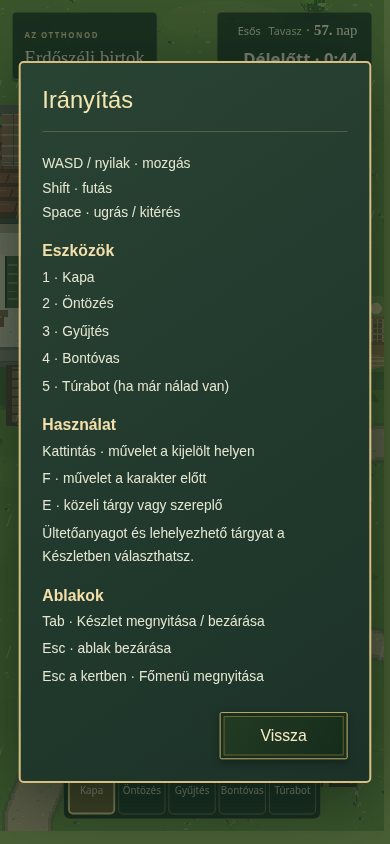
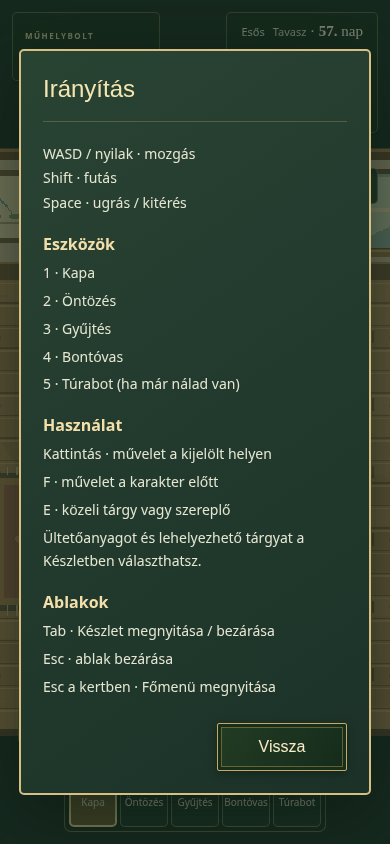
Unify farm and village window styling and clarify compost input rows

Changed region(s): [[0.0, 0.0, 1.0, 1.0], [0.0923, 0.4313, 0.1231, 0.4621]]

diff --git a/src/main.ts b/src/main.ts
@@ -76,6 +76,8 @@ let workshopIsKnown=false;
 const story="Sam egy kutatólaborban dolgozott, ahol rovarokon élősködő gombákat vizsgáltak.\n\nAz utolsó hónapokban egy szokatlan minta érkezett a laborba. Az eredmények nem illettek ahhoz, amit addig tudtak. Sam még azelőtt eljött, hogy kiderült volna, mit találtak.\n\n„Szeretném megtudni, képes vagyok-e a saját kezemmel otthont teremteni ezen a helyen.”";
 function showDialogue(title:string,text:string,label='A BIRTOKON'){
  if(['IRÁNYÍTÁS','A RÉGI MŰHELY','EGY KEDVES SZÓ'].includes(label))text=workshopText(text,workshopIsKnown);label=workshopText(label,workshopIsKnown);
+ delete dialogue.dataset.window;
+ if(['MAGKATALÓGUS','POSTALÁDA','ELADÓLÁDA','ESTI NAPLÓ','HIRDETŐTÁBLA','SIMON','LEO','ANNIE'].includes(label)||['Készlet','Tárolóláda','Nádkosár','Levél a laborba','A küldemény úton van',...Object.values(blueprintNames)].includes(title))dialogue.dataset.window='utility';
  document.querySelector('#research-panel')!.classList.remove('controls-guide');
  release();dialogue.querySelector('.machine-petals')?.remove();delete dialogue.dataset.presentation;delete dialogue.dataset.speaker;document.querySelector<HTMLElement>('#speaker')!.hidden=true;document.querySelector('#speaker-portrait')!.replaceChildren();
  document.querySelector<HTMLButtonElement>('#sleep')!.hidden=true;
@@ -603,10 +605,24 @@ class Farm extends Phaser.Scene {
   if(machine.kind==='irrigation')this.sprayPending=true;
   showDialogue(machine.kind==='basket'?'Nádkosár':blueprintNames[machine.kind],'','A BIRTOKON');const panel=document.querySelector<HTMLElement>('#research-panel')!;panel.replaceChildren();panel.hidden=false;panel.append(machineActivityPanel(machine));
   if(machine.kind==='irrigation'||machine.kind==='beeHabitat'||machine.kind==='basket'){const pickup=document.createElement('button');pickup.type='button';pickup.textContent='Felveszem';pickup.dataset.packMachine=String(index);pickup.onclick=()=>void this.retrieveMachine(index,true);panel.append(pickup);return;}
-  const ready=machine.ready>0,compost=machine.kind==='composter',input=compost?'Gaz':'Vágott nád',held=compost?this.clearing.weed:heldMaterial(this.currentSnapshot(),'reed'),cost=compost?10:4;const status=document.createElement('p');status.textContent=ready?`${compost?'Mulcs':'Nádkosár'}: ${machine.ready}`:machine.started!==null?'Készül…':`${input}: ${held} / ${cost} → ${compost?'4 mulcs':'1 nádkosár'}`;panel.append(status);
-  if(compost&&!ready&&machine.started===null){const fruit=this.travel.crafting?.items.fallenFruit??0;const row=document.createElement('p');row.append(itemIcon('fallenFruit'),document.createTextNode(`Hullott gyümölcs: ${fruit} / 10 → 4 mulcs`));panel.append(row);const start=document.createElement('button');start.type='button';start.dataset.compostFruit='';start.textContent='Gyümölcsből készítem';start.disabled=fruit<10||this.transitioning;start.onclick=()=>{const next=compostAction(this.currentSnapshot(),index,'fallenFruit');if(next)void this.commitChest(next,()=>this.openMachine(index));};panel.append(start);}
-  const button=document.createElement('button');button.type='button';button.dataset.machineAction=String(index);button.textContent=ready?'Átveszem':'Elindítom';button.disabled=this.transitioning||machine.started!==null||!ready&&held<cost;button.onclick=()=>{if(this.transitioning)return;const next=compostAction(this.currentSnapshot(),index);if(next)void this.commitChest(next,()=>this.openMachine(index));};panel.append(button);const pack=document.createElement('button');pack.type='button';pack.dataset.packMachine=String(index);pack.textContent='Felveszem';pack.disabled=machine.started!==null||machine.ready>0||this.transitioning;pack.onclick=()=>void this.retrieveMachine(index,true);panel.append(pack);
+  const ready=machine.ready>0,compost=machine.kind==='composter';
+  if(!ready&&machine.started===null){
+   const inputs=compost?(['weed','fallenFruit'] as const):(['reed'] as const);
+   for(const input of inputs){
+    const held=input==='weed'?this.clearing.weed:input==='fallenFruit'?this.travel.crafting?.items.fallenFruit??0:heldMaterial(this.currentSnapshot(),'reed'),cost=compost?10:4;
+    const row=document.createElement('div');row.className='machine-input-row';row.dataset.machineInput=input;
+    const text=document.createElement('span');text.textContent=`${input==='weed'?'Gaz':input==='fallenFruit'?'Hullott gyümölcs':'Vágott nád'}: ${held} / ${cost} → ${compost?'4 mulcs':'1 nádkosár'}`;
+    const start=document.createElement('button');start.type='button';start.textContent='Elindítom';if(input==='fallenFruit')start.dataset.compostFruit='';else start.dataset.machineAction=String(index);
+    start.disabled=this.transitioning||held<cost;start.onclick=()=>{if(this.transitioning)return;const next=compostAction(this.currentSnapshot(),index,input==='fallenFruit'?'fallenFruit':'weed');if(next)void this.commitChest(next,()=>this.openMachine(index));};
+    row.append(itemIcon(input==='reed'?'cutReed':input),text,start);panel.append(row);
+   }
+  }else{
+   const status=document.createElement('p');status.className='machine-output';if(ready)status.append(itemIcon(compost?'mulch':'basket'));status.append(document.createTextNode(ready?`${compost?'Mulcs':'Nádkosár'}: ${machine.ready}`:'Készül…'));panel.append(status);
+   const take=document.createElement('button');take.type='button';take.dataset.machineAction=String(index);take.textContent=ready?'Átveszem':'Elindítom';take.disabled=this.transitioning||!ready;take.onclick=()=>{if(this.transitioning)return;const next=compostAction(this.currentSnapshot(),index);if(next)void this.commitChest(next,()=>this.openMachine(index));};panel.append(take);
+  }
+  const pack=document.createElement('button');pack.type='button';pack.dataset.packMachine=String(index);pack.textContent='Felveszem';pack.disabled=machine.started!==null||machine.ready>0||this.transitioning;pack.onclick=()=>void this.retrieveMachine(index,true);panel.append(pack);
  }
+
  private async retrieveMachine(index:number,close=false){if(this.transitioning)return;const next=packMachine(this.currentSnapshot(),index);if(next)await this.commitChest(next,()=>{if(close)dialogue.close();});}
  private craftPlacement(){
   if(!this.target)return null;let p={x:this.target.x+TILE/2,y:this.target.y+TILE/2};if(this.placingCraft==='irrigation'&&this.garden.plots.size){const closest=[...this.garden.plots.keys()].map(k=>{const[x,y]=k.split(',').map(Number);return{x:x+TILE/2,y:y+TILE/2};}).filter(q=>Math.abs(q.y-p.y)<=TILE/2).sort((a,b)=>Math.abs(a.y-p.y)-Math.abs(b.y-p.y)||Math.abs(a.x-p.x)-Math.abs(b.x-p.x))[0];if(closest)p={x:closest.x+Math.round((p.x-closest.x)/TILE)*TILE,y:closest.y};}return p;

diff --git a/src/menu.css b/src/menu.css
@@ -99,3 +99,33 @@
 #dialogue:is([data-presentation="controls"],[data-presentation="story"]) #dialogue-close:hover{background:linear-gradient(125deg,#3b502cf5,#243e24f5)}
 #dialogue[data-presentation="controls"] #research-panel{border-top:0;padding-top:0}
 @media(max-width:500px){#dialogue:is([data-presentation="controls"],[data-presentation="story"]){padding:22px;max-height:calc(100dvh - 32px)}#dialogue:is([data-presentation="controls"],[data-presentation="story"]) #dialogue-text{font-size:14px;line-height:1.75}#dialogue:is([data-presentation="controls"],[data-presentation="story"]) #dialogue-title{font-size:24px}}
+
+/* Reading text uses the original system font; controls retain the menu type. */
+#dialogue:is([data-presentation="story"],[data-presentation="controls"]) #dialogue-text,#dialogue[data-presentation="controls"] .controls-guide{font-family:system-ui,sans-serif}
+/* Shared surfaces for farm, storage and inventory windows. */
+#dialogue[data-window="utility"]{inset:0;margin:auto;height:fit-content;max-height:calc(100dvh - 40px);background:linear-gradient(145deg,#2b4332f7,#172e23fc);border:1px solid #bda46a;border-radius:5px;box-shadow:0 16px 70px #07170e90;color:#f0e8ce;font-family:system-ui,sans-serif}
+#dialogue[data-window="utility"]::backdrop{background:#07170d80}
+#dialogue[data-window="utility"] #dialogue-title{font:400 27px/1.3 'Trebuchet MS','Segoe UI',sans-serif;color:#f4e6b0}
+#dialogue[data-window="utility"] #dialogue-label{color:#d4bf85}
+#dialogue[data-window="utility"] :is(p,li){font-family:system-ui,sans-serif}
+#dialogue[data-window="utility"] button{font-family:'Trebuchet MS','Segoe UI',sans-serif;color:#f8ebc5;background:linear-gradient(125deg,#233c22f2,#142b1bf5);border-color:#bda46a;border-radius:3px}
+#dialogue[data-window="utility"] button:not(.item-slot):not(.chest-slot):not([role="tab"]){box-shadow:inset 0 0 0 2px #172e1a,inset 0 0 0 3px #ac944b70}
+#dialogue[data-window="utility"] button:hover:not(:disabled){background:linear-gradient(125deg,#3b502cf5,#243e24f5);border-color:#e0c784}
+#dialogue[data-window="utility"] button:disabled{color:#b7b8ad;background:#555c54;border-color:#858b7b;opacity:.55;cursor:default;box-shadow:none}
+#dialogue[data-window="utility"] .inventory-tabs button[aria-selected="true"]{background:#676940;color:#fff1bd;border-color:#e0c784;box-shadow:inset 0 -2px #d7bd76}
+#dialogue[data-window="utility"] :is(.backpack-slot,.inventory-card,.chest-slot){background:#314b36;border-color:#8d936c;border-radius:4px}
+#dialogue[data-window="utility"] :is(.slot-grid,.empty-slot){border-color:#8d936c80}
+#dialogue[data-window="utility"] .catalog-row{border-bottom-color:#bda46a40}
+#dialogue[data-window="utility"] input{border-color:#bda46a;background:#f1ebd4;color:#233b2d;border-radius:3px}
+#dialogue[data-window="utility"] #research-panel{border-top-color:#bda46a60}
+.machine-input-row{display:grid;grid-template-columns:40px minmax(0,1fr) auto;align-items:center;gap:12px;padding:13px 0;border-bottom:1px solid #bda46a40}
+.machine-input-row>.item-icon,.machine-output>.item-icon{width:40px;height:40px;flex:none}
+.machine-input-row>span{font:14px/1.5 system-ui,sans-serif;overflow-wrap:anywhere}
+#dialogue .machine-input-row>button{margin:0;min-height:44px;font-size:15px;white-space:nowrap}
+.machine-output{display:flex;align-items:center;gap:12px}
+@media(max-width:500px){#dialogue[data-window="utility"]{max-height:calc(100dvh - 24px)}#dialogue[data-window="utility"] #dialogue-title{font-size:24px}.machine-input-row{grid-template-columns:32px minmax(0,1fr) auto;gap:8px}.machine-input-row>.item-icon{width:32px;height:32px}.machine-input-row>span{font-size:12px}#dialogue .machine-input-row>button{font-size:13px;padding:8px 10px}}
+
+#dialogue[data-window="utility"] :is(.shop-card,.person-card){background:#314b3699;border-color:#8d936c80;border-radius:4px}
+#dialogue[data-window="utility"] .shop-card :is(h3,strong){color:#f4e6b0}
+
+#dialogue[data-window="utility"],#dialogue:is([data-presentation="story"],[data-presentation="controls"]){scrollbar-width:thin;scrollbar-color:#9d9568 #1e3527}

diff --git a/docs/jatekterv.md b/docs/jatekterv.md
@@ -829,3 +829,10 @@ Amikor Sam először közel sétál valóban sikertelen terméskötődést mutat
 - A „2026 Harsányi Zsófia” felirat a kisebb Menüben és annak Beállításaiban az **ablak aljára** kerül; a teljes képernyős Főmenüben továbbra is a képernyő alján marad. A verziószám továbbra sincs még kitöltve.
 - Az Irányítás elavult, hosszú magyarázata helyett rövid vázlat szerepel: mozgás/futás/ugrás, a jelenlegi öt eszköz, kattintás/F/E, Készlet és ESC. Régi Kéz/Fejsze/Csákány gyorsbillentyűk, árak, küldetési útmutatók és elavult újratermési szövegek nem szerepelnek benne. Címe „Irányítás”, ismétlődő felső címke nincs.
 - A Történet és az Irányítás kisebb ablakai a Menü sötétzöld felületét, aranyszegélyét, árnyékát, Trebuchet MS / Segoe UI betűcsaládját és Vissza gombját használják. A Történet elfogadott szövege változatlan, az ablak címe „Történet”; felső ismétlődő címke itt sincs.
+
+
+### Egységes játékablakok és komposztáló — 2026. október 28.
+- A hosszabb szövegek a Történetben és az Irányításban ismét **system-ui / sans-serif** betűcsaládot használnak. A menüpontok, fülek, műveleti gombok és ablakcímek maradnak Trebuchet MS / Segoe UI jellegűek; a Silent Pollen képi cím változatlan.
+- A Menü sötétzöld felülete, meleg aranyszegélye, árnyéka, gombjai, inaktív állapotai és görgetősávja egységesen megjelenik a Postaládánál, Eladóládánál, Magkatalógusnál, farmi gépeknél (komposztáló, nádkosárkészítő, öntöző és lerakott kosár), tárolóládánál, a TAB-os Készlet összes fülén, a Naplónál, a hirdetőtáblánál és mindhárom bolt vásárlási ablakainál. Tartalom és működés megmarad. A névtelen figyelmeztetés külön fehér papíros, ceruzás arculata megmarad.
+- A komposztáló indítás előtt két külön sort mutat: **Gaz** és **Hullott gyümölcs**, mindkettő saját ikonnal, birtokolt/szükséges mennyiséggel és ugyanabban a sorban egy **Elindítom** gombbal. Csak a kiválasztott sor alapanyagát használja fel; a másik készlete változatlan. 10 alapanyag → másnapra 4 mulcs, változatlanul. Feldolgozás és kész eredmény esetén az állapot/átvétel látszik, a felvétel korábbi feltételei megmaradnak. A nádkosárkészítő a soros, ikonos megjelenést szintén használja.
+- Böngészőben külön ellenőrizve minden felsorolt ablak, minden Készlet-fül, a teli tárolóláda letiltott felvétele, mindkét komposztálási alapanyag egymástól független fogyása, a kosárkészítés és a fehér figyelmeztetés elkülönülése; a komposztáló mobilnézetben is.
